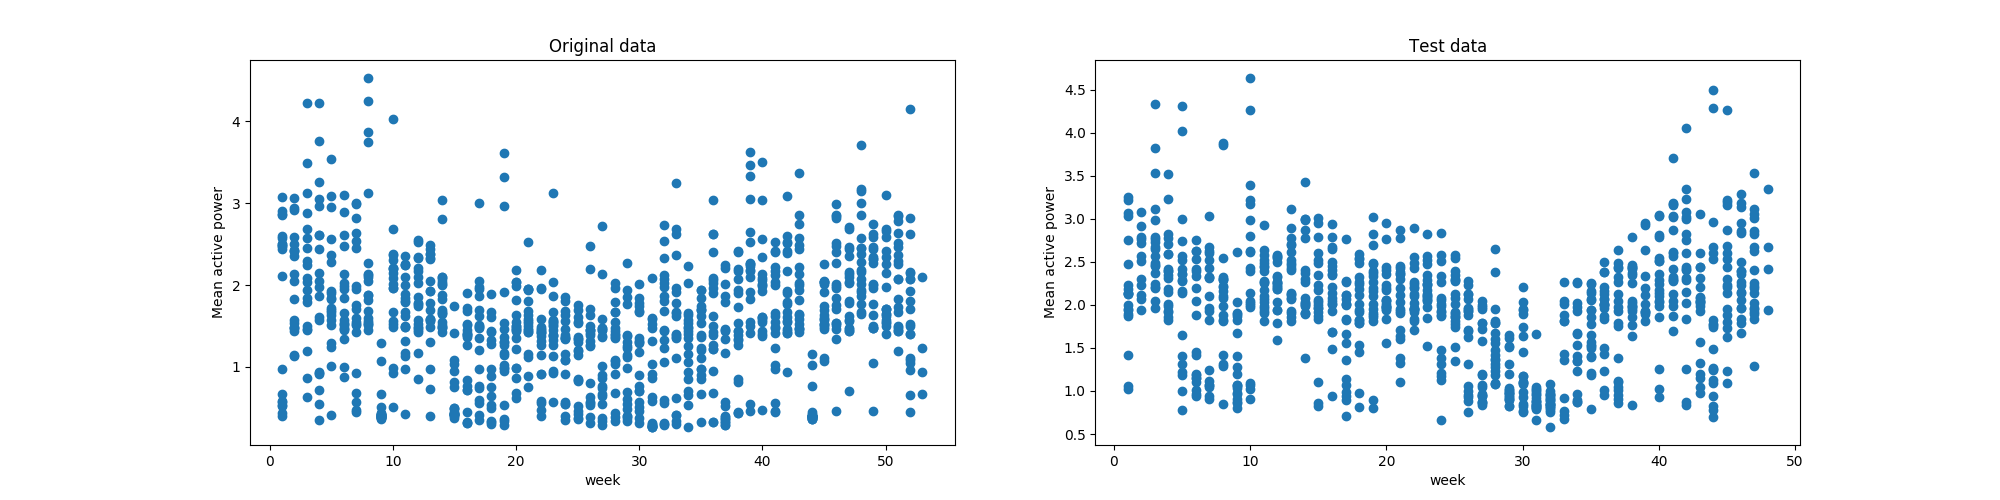
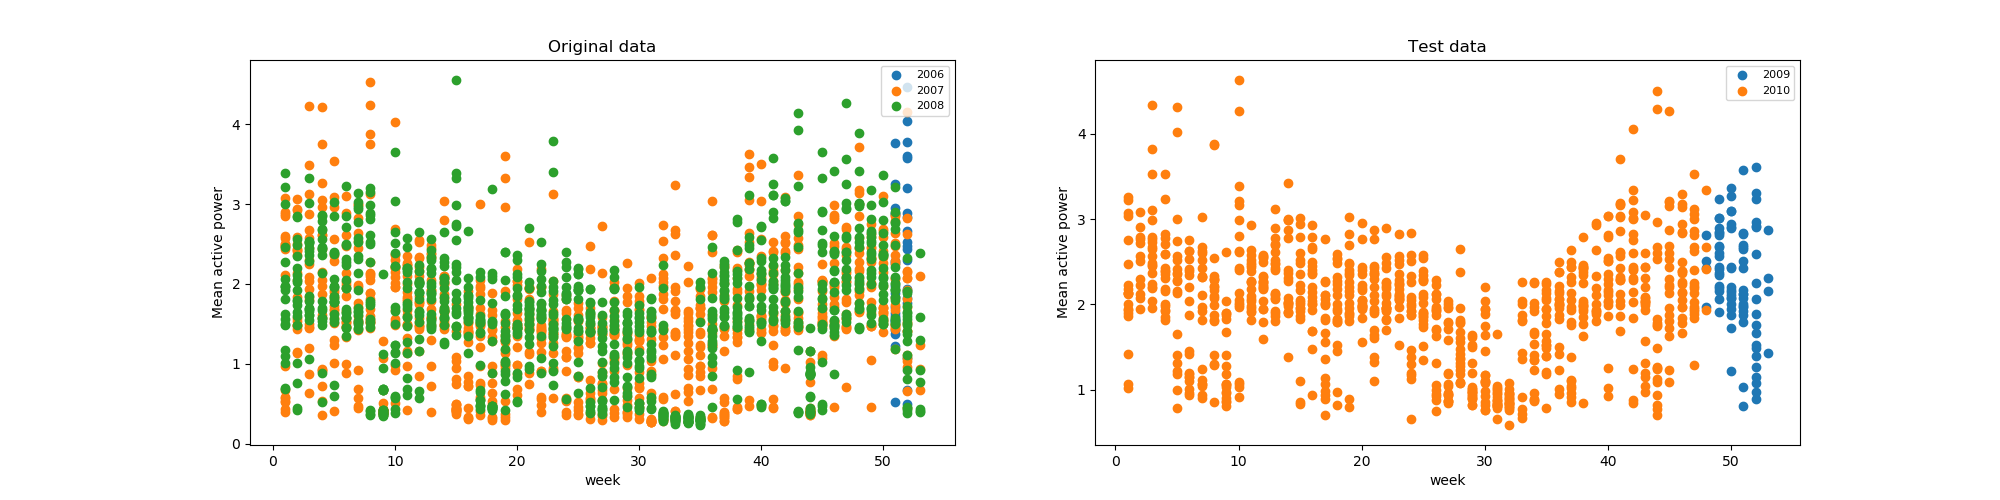
plotted more stuff

diff --git a/phase1_more.py b/phase1_more.py
@@ -22,15 +22,23 @@ test_agg_2010 = test_data_2010.groupby(['day', 'hour', 'week'])['Global_active_p
 
 plt.figure(figsize=(20, 5))
 plt.subplot(1, 2, 1)
-plt.scatter(train_agg_2006['week'], train_agg_2006['Global_active_power']['mean'], marker='o')
-plt.scatter(train_agg_2007['week'], train_agg_2007['Global_active_power']['mean'], marker='o')
-plt.scatter(train_agg_2008['week'], train_agg_2008['Global_active_power']['mean'], marker='o')
+t2006 = plt.scatter(train_agg_2006['week'], train_agg_2006['Global_active_power']['mean'], marker='o')
+t2007 = plt.scatter(train_agg_2007['week'], train_agg_2007['Global_active_power']['mean'], marker='o')
+t2008 = plt.scatter(train_agg_2008['week'], train_agg_2008['Global_active_power']['mean'], marker='o')
+plt.legend((t2006, t2007, t2008),
+           ('2006', '2007', '2008'),
+           loc='upper right',
+           fontsize=8)
 plt.title('Original data')
 plt.xlabel('week')
 plt.ylabel('Mean active power')
 plt.subplot(1, 2, 2)
-plt.scatter(test_agg_2009['week'], test_agg_2009['Global_active_power']['mean'], marker='o')
-plt.scatter(test_agg_2010['week'], test_agg_2010['Global_active_power']['mean'], marker='o')
+te2009 = plt.scatter(test_agg_2009['week'], test_agg_2009['Global_active_power']['mean'], marker='o')
+te2010 = plt.scatter(test_agg_2010['week'], test_agg_2010['Global_active_power']['mean'], marker='o')
+plt.legend((te2009, te2010),
+           ('2009', '2010'),
+           loc='upper right',
+           fontsize=8)
 plt.title('Test data')
 plt.xlabel('week')
 plt.ylabel('Mean active power')
@@ -38,14 +46,23 @@ plt.savefig('Mean active power.png')
 
 plt.figure(figsize=(20, 5))
 plt.subplot(1, 2, 1)
-plt.scatter(train_agg_2006['week'], train_agg_2006['Global_active_power']['max'], marker='o')
-plt.scatter(train_agg_2007['week'], train_agg_2007['Global_active_power']['max'], marker='o')
-plt.scatter(train_agg_2008['week'], train_agg_2008['Global_active_power']['max'], marker='o')
+t2006 = plt.scatter(train_agg_2006['week'], train_agg_2006['Global_active_power']['max'], marker='o')
+t2007 = plt.scatter(train_agg_2007['week'], train_agg_2007['Global_active_power']['max'], marker='o')
+t2008 = plt.scatter(train_agg_2008['week'], train_agg_2008['Global_active_power']['max'], marker='o')
+plt.legend((t2006, t2007, t2008),
+           ('2006', '2007', '2008'),
+           loc='upper right',
+           fontsize=8)
 plt.title('Original data')
 plt.xlabel('week')
 plt.ylabel('Max active power')
 plt.subplot(1, 2, 2)
-plt.scatter(test_agg_2009['week'], test_agg_2009['Global_active_power']['max'], marker='o')
+te2009 = plt.scatter(test_agg_2009['week'], test_agg_2009['Global_active_power']['max'], marker='o')
+te2010 = plt.scatter(test_agg_2010['week'], test_agg_2010['Global_active_power']['max'], marker='o')
+plt.legend((te2009, te2010),
+           ('2009', '2010'),
+           loc='upper right',
+           fontsize=8)
 plt.title('Test data')
 plt.xlabel('week')
 plt.ylabel('Max active power')
@@ -53,12 +70,23 @@ plt.savefig('Max active power.png')
 
 plt.figure(figsize=(20, 5))
 plt.subplot(1, 2, 1)
-plt.scatter(train_agg_2006['week'], train_agg_2006['Voltage']['mean'], marker='o')
+t2006 = plt.scatter(train_agg_2006['week'], train_agg_2006['Voltage']['mean'], marker='o')
+t2007 = plt.scatter(train_agg_2007['week'], train_agg_2007['Voltage']['mean'], marker='o')
+t2008 = plt.scatter(train_agg_2008['week'], train_agg_2008['Voltage']['mean'], marker='o')
+plt.legend((t2006, t2007, t2008),
+           ('2006', '2007', '2008'),
+           loc='upper right',
+           fontsize=8)
 plt.title('Original data')
 plt.xlabel('week')
 plt.ylabel('Mean Voltage')
 plt.subplot(1, 2, 2)
-plt.scatter(test_agg_2009['week'], test_agg_2009['Voltage']['mean'], marker='o')
+te2009 = plt.scatter(test_agg_2009['week'], test_agg_2009['Voltage']['mean'], marker='o')
+te2010 = plt.scatter(test_agg_2010['week'], test_agg_2010['Voltage']['mean'], marker='o')
+plt.legend((te2009, te2010),
+           ('2009', '2010'),
+           loc='upper right',
+           fontsize=8)
 plt.title('Test data')
 plt.xlabel('week')
 plt.ylabel('Mean Voltage')
@@ -66,12 +94,23 @@ plt.savefig('Mean Voltage.png')
 
 plt.figure(figsize=(20, 5))
 plt.subplot(1, 2, 1)
-plt.scatter(train_agg_2006['week'], train_agg_2006['Voltage']['max'], marker='o')
+t2006 = plt.scatter(train_agg_2006['week'], train_agg_2006['Voltage']['max'], marker='o')
+t2007 = plt.scatter(train_agg_2007['week'], train_agg_2007['Voltage']['max'], marker='o')
+t2008 = plt.scatter(train_agg_2008['week'], train_agg_2008['Voltage']['max'], marker='o')
+plt.legend((t2006, t2007, t2008),
+           ('2006', '2007', '2008'),
+           loc='upper right',
+           fontsize=8)
 plt.title('Original data')
 plt.xlabel('week')
 plt.ylabel('Max Voltage')
 plt.subplot(1, 2, 2)
-plt.scatter(test_agg_2009['week'], test_agg_2009['Voltage']['max'], marker='o')
+te2009 = plt.scatter(test_agg_2009['week'], test_agg_2009['Voltage']['max'], marker='o')
+te2010 = plt.scatter(test_agg_2010['week'], test_agg_2010['Voltage']['max'], marker='o')
+plt.legend((te2009, te2010),
+           ('2009', '2010'),
+           loc='upper right',
+           fontsize=8)
 plt.title('Test data')
 plt.xlabel('week')
 plt.ylabel('Max Voltage')
@@ -79,12 +118,23 @@ plt.savefig('Max Voltage.png')
 
 plt.figure(figsize=(20, 5))
 plt.subplot(1, 2, 1)
-plt.scatter(train_agg_2006['week'], train_agg_2006['Global_intensity']['mean'], marker='o')
+t2006 = plt.scatter(train_agg_2006['week'], train_agg_2006['Global_intensity']['mean'], marker='o')
+t2007 = plt.scatter(train_agg_2007['week'], train_agg_2007['Global_intensity']['mean'], marker='o')
+t2008 = plt.scatter(train_agg_2008['week'], train_agg_2008['Global_intensity']['mean'], marker='o')
+plt.legend((t2006, t2007, t2008),
+           ('2006', '2007', '2008'),
+           loc='upper right',
+           fontsize=8)
 plt.title('Original data')
 plt.xlabel('week')
 plt.ylabel('Mean Global_intensity')
 plt.subplot(1, 2, 2)
-plt.scatter(test_agg_2009['week'], test_agg_2009['Global_intensity']['mean'], marker='o')
+te2009 = plt.scatter(test_agg_2009['week'], test_agg_2009['Global_intensity']['mean'], marker='o')
+te2010 = plt.scatter(test_agg_2010['week'], test_agg_2010['Global_intensity']['mean'], marker='o')
+plt.legend((te2009, te2010),
+           ('2009', '2010'),
+           loc='upper right',
+           fontsize=8)
 plt.title('Test data')
 plt.xlabel('week')
 plt.ylabel('Mean Global_intensity')
@@ -92,12 +142,23 @@ plt.savefig('Mean Global_intensity.png')
 
 plt.figure(figsize=(20, 5))
 plt.subplot(1, 2, 1)
-plt.scatter(train_agg_2006['week'], train_agg_2006['Global_intensity']['max'], marker='o')
+t2006 = plt.scatter(train_agg_2006['week'], train_agg_2006['Global_intensity']['max'], marker='o')
+t2007 = plt.scatter(train_agg_2007['week'], train_agg_2007['Global_intensity']['max'], marker='o')
+t2008 = plt.scatter(train_agg_2008['week'], train_agg_2008['Global_intensity']['max'], marker='o')
+plt.legend((t2006, t2007, t2008),
+           ('2006', '2007', '2008'),
+           loc='upper right',
+           fontsize=8)
 plt.title('Original data')
 plt.xlabel('week')
 plt.ylabel('Max Global_intensity')
 plt.subplot(1, 2, 2)
-plt.scatter(test_agg_2009['week'], test_agg_2009['Global_intensity']['max'], marker='o')
+te2009 = plt.scatter(test_agg_2009['week'], test_agg_2009['Global_intensity']['max'], marker='o')
+te2010 = plt.scatter(test_agg_2010['week'], test_agg_2010['Global_intensity']['max'], marker='o')
+plt.legend((te2009, te2010),
+           ('2009', '2010'),
+           loc='upper right',
+           fontsize=8)
 plt.title('Test data')
 plt.xlabel('week')
 plt.ylabel('Max Global_intensity')
@@ -106,12 +167,23 @@ plt.savefig('Max Global_intensity.png')
 
 plt.figure(figsize=(20, 5))
 plt.subplot(1, 2, 1)
-plt.scatter(train_agg_2006['week'], train_agg_2006['Voltage']['min'], marker='o')
+t2006 = plt.scatter(train_agg_2006['week'], train_agg_2006['Voltage']['min'], marker='o')
+t2007 = plt.scatter(train_agg_2007['week'], train_agg_2007['Voltage']['min'], marker='o')
+t2008 = plt.scatter(train_agg_2008['week'], train_agg_2008['Voltage']['min'], marker='o')
+plt.legend((t2006, t2007, t2008),
+           ('2006', '2007', '2008'),
+           loc='upper right',
+           fontsize=8)
 plt.title('Original data')
 plt.xlabel('week')
 plt.ylabel('Min Voltage')
 plt.subplot(1, 2, 2)
-plt.scatter(test_agg_2009['week'], test_agg_2009['Voltage']['min'], marker='o')
+te2009 = plt.scatter(test_agg_2009['week'], test_agg_2009['Voltage']['min'], marker='o')
+te2010 = plt.scatter(test_agg_2010['week'], test_agg_2010['Voltage']['min'], marker='o')
+plt.legend((te2009, te2010),
+           ('2009', '2010'),
+           loc='upper right',
+           fontsize=8)
 plt.title('Test data')
 plt.xlabel('week')
 plt.ylabel('Min Voltage')
@@ -121,12 +193,23 @@ plt.savefig('Min Voltage.png')
 
 plt.figure(figsize=(20, 5))
 plt.subplot(1, 2, 1)
-plt.scatter(train_agg_2006['week'], train_agg_2006['Global_active_power']['min'], marker='o')
+t2006 = plt.scatter(train_agg_2006['week'], train_agg_2006['Global_active_power']['min'], marker='o')
+t2007 = plt.scatter(train_agg_2007['week'], train_agg_2007['Global_active_power']['min'], marker='o')
+t2008 = plt.scatter(train_agg_2008['week'], train_agg_2008['Global_active_power']['min'], marker='o')
+plt.legend((t2006, t2007, t2008),
+           ('2006', '2007', '2008'),
+           loc='upper right',
+           fontsize=8)
 plt.title('Original data')
 plt.xlabel('week')
 plt.ylabel('Min active power')
 plt.subplot(1, 2, 2)
-plt.scatter(test_agg_2009['week'], test_agg_2009['Global_active_power']['min'], marker='o')
+te2009 = plt.scatter(test_agg_2009['week'], test_agg_2009['Global_active_power']['min'], marker='o')
+te2010 = plt.scatter(test_agg_2010['week'], test_agg_2010['Global_active_power']['min'], marker='o')
+plt.legend((te2009, te2010),
+           ('2009', '2010'),
+           loc='upper right',
+           fontsize=8)
 plt.title('Test data')
 plt.xlabel('week')
 plt.ylabel('Min active power')
@@ -134,12 +217,23 @@ plt.savefig('Min active power.png')
 
 plt.figure(figsize=(20, 5))
 plt.subplot(1, 2, 1)
-plt.scatter(train_agg_2006['week'], train_agg_2006['Global_intensity']['min'], marker='o')
+t2006 = plt.scatter(train_agg_2006['week'], train_agg_2006['Global_intensity']['min'], marker='o')
+t2007 = plt.scatter(train_agg_2007['week'], train_agg_2007['Global_intensity']['min'], marker='o')
+t2008 = plt.scatter(train_agg_2008['week'], train_agg_2008['Global_intensity']['min'], marker='o')
+plt.legend((t2006, t2007, t2008),
+           ('2006', '2007', '2008'),
+           loc='upper right',
+           fontsize=8)
 plt.title('Original data')
 plt.xlabel('week')
 plt.ylabel('Min Global_intensity')
 plt.subplot(1, 2, 2)
-plt.scatter(test_agg_2009['week'], test_agg_2009['Global_intensity']['min'], marker='o')
+te2009 = plt.scatter(test_agg_2009['week'], test_agg_2009['Global_intensity']['min'], marker='o')
+te2010 = plt.scatter(test_agg_2010['week'], test_agg_2010['Global_intensity']['min'], marker='o')
+plt.legend((te2009, te2010),
+           ('2009', '2010'),
+           loc='upper right',
+           fontsize=8)
 plt.title('Test data')
 plt.xlabel('week')
 plt.ylabel('Min Global_intensity')
